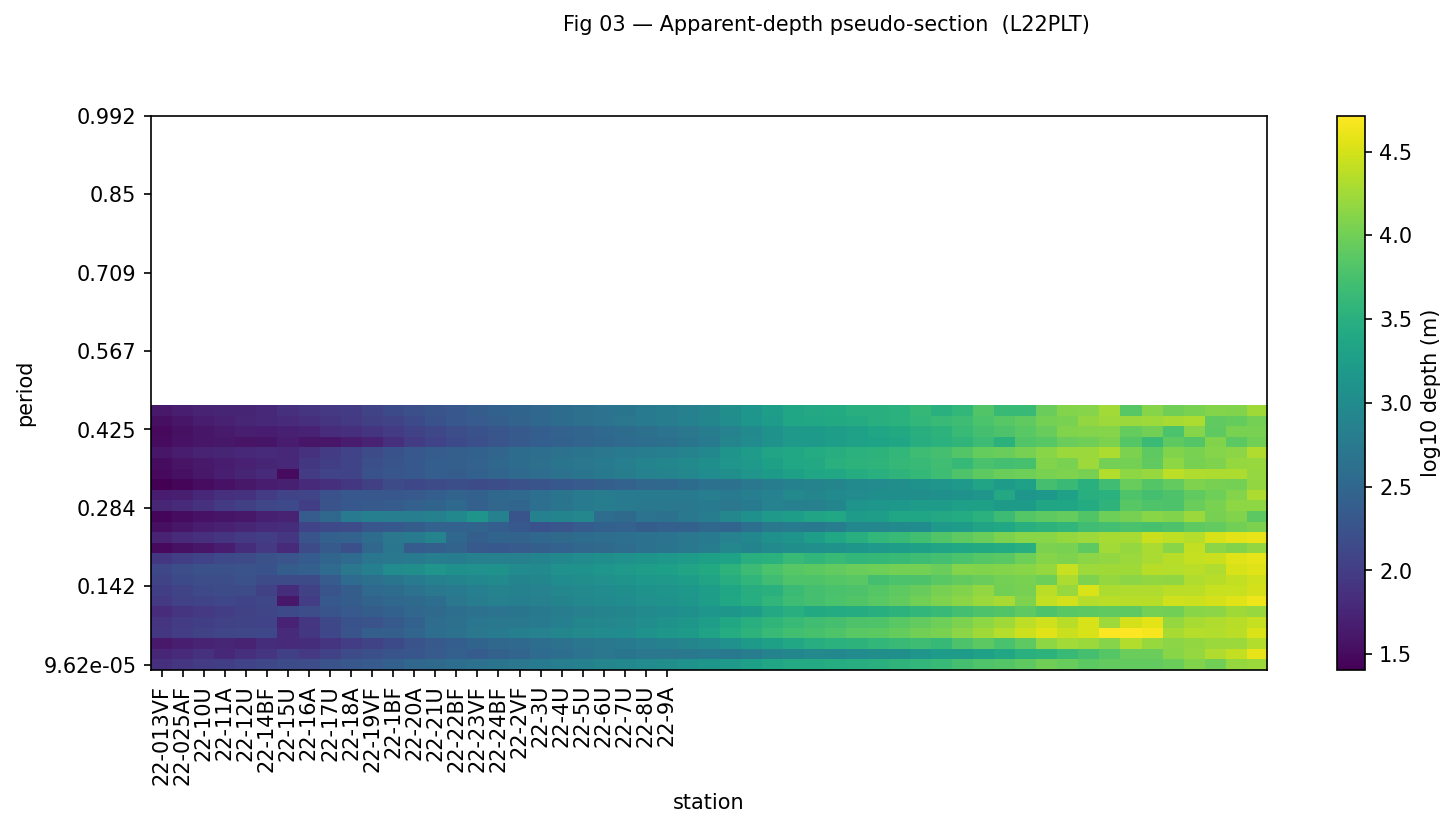
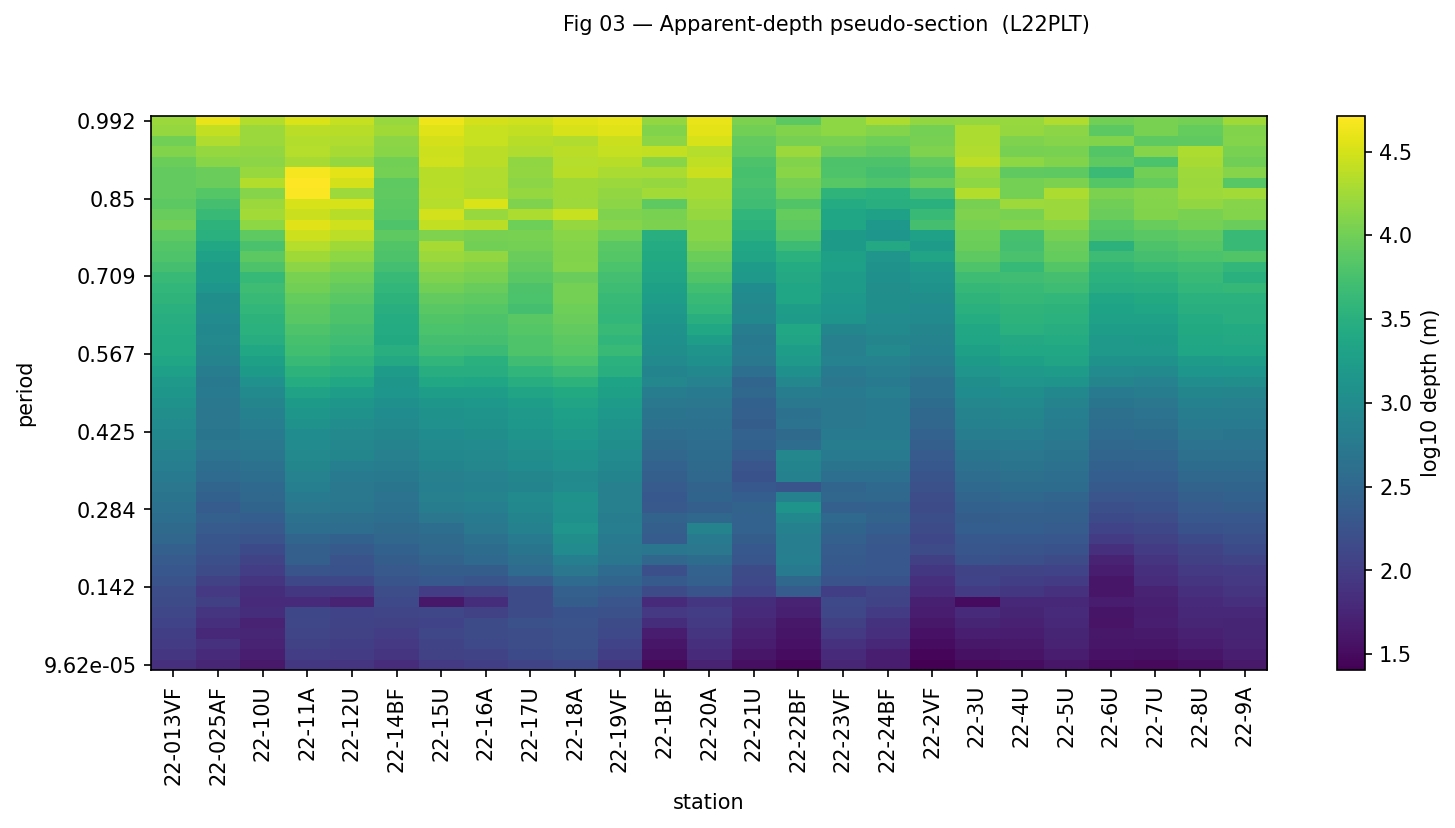
fix station tick placement in apparent-depth and dim-grid panels
Both plot_apparent_depth_psection (frequency.py) and _draw_dim_grid
(tensor.py / fig09 panel b) transposed the pivot table before passing
to imshow, making the x-axis span n_periods (~53) while set_xticks
placed only n_stations (25) labels — station names appeared only on
the left ~half and the right half was blank.

Fix: remove .T so imshow receives shape (n_periods, n_stations),
     mapping x → stations, y → periods, and adjust the shape indices
     used for ytick linspace accordingly.

diff --git a/pycsamt/emtools/frequency.py b/pycsamt/emtools/frequency.py
@@ -654,7 +654,9 @@ def plot_apparent_depth_psection(
         aggfunc=agg,
     )
     piv = piv.sort_index()
-    Zm = piv.to_numpy(dtype=float).T
+    # piv has shape (n_periods, n_stations); do NOT transpose so that
+    # imshow maps x → stations and y → periods.
+    Zm = piv.to_numpy(dtype=float)
     if log_color:
         Zplot = np.log10(np.maximum(Zm, 1e-3))
         cblab = "log10 depth (m)"
@@ -671,10 +673,10 @@ def plot_apparent_depth_psection(
     )
     ax.set_xlabel("station")
     ax.set_ylabel(ykey)
-    ax.set_xticks(np.arange(Zplot.shape[0]))
+    ax.set_xticks(np.arange(Zplot.shape[1]))   # shape[1] = n_stations
     ax.set_xticklabels(piv.columns, rotation=90)
-    yt = np.linspace(0, Zplot.shape[1] - 1,
-                     num=min(8, Zplot.shape[1]))
+    yt = np.linspace(0, Zplot.shape[0] - 1,
+                     num=min(8, Zplot.shape[0]))  # shape[0] = n_periods
     yv = np.linspace(piv.index.min(), piv.index.max(),
                      num=min(8, len(piv.index)))
     ax.set_yticks(yt)

diff --git a/pycsamt/emtools/tensor.py b/pycsamt/emtools/tensor.py
@@ -1383,7 +1383,9 @@ def _draw_dim_grid(
         index="_logp", columns="station", values="_dim", aggfunc="median",
     )
     piv = piv.reindex(columns=st_list).sort_index()
-    Z = piv.to_numpy(dtype=float).T          # (n_st, n_logp)
+    # piv has shape (n_logp, n_stations); do NOT transpose so that
+    # imshow maps x → stations and y → log-periods.
+    Z = piv.to_numpy(dtype=float)            # (n_logp, n_st)
 
     cmap_d = mcolors.ListedColormap(["#f7f7f7", "#969696", "#d6604d"])
     bounds = [-0.5, 0.5, 1.5, 2.5]
@@ -1396,7 +1398,7 @@ def _draw_dim_grid(
     n_st = len(st_list)
     ax.set_xticks(np.arange(n_st))
     ax.set_xticklabels(st_list, rotation=45, ha="right", fontsize=7)
-    n_logp = Z.shape[1]
+    n_logp = Z.shape[0]   # shape[0] = n_logp now that .T is removed
     y_ticks = np.linspace(0, n_logp - 1, num=min(6, n_logp))
     y_vals  = np.linspace(piv.index.min(), piv.index.max(), num=min(6, n_logp))
     ax.set_yticks(y_ticks)
